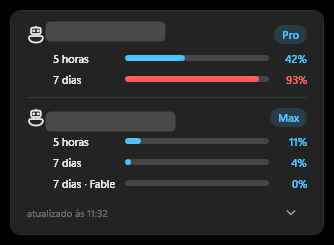
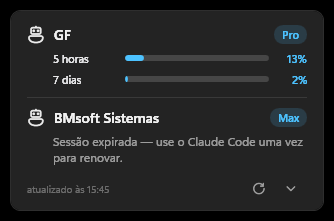
feat: O cartão de cota ganha um botão para perguntar de novo, agora
"Card do consumo de IA não tem um refresh." Não tinha mesmo: a cota era lida ao
abrir o cartão e de dez em dez minutos, e quem acabava de usar o Claude Code
precisava fechar e reabrir o cartão para ver o número novo — sem nada na tela
dizendo que era isso o que faltava fazer.

O ↻ entra no rodapé, à esquerda da seta de abrir e fechar os detalhes. Enquanto
a resposta não chega, o rodapé diz "consultando…" e o botão fica desabilitado:
clicar de novo não adiantaria, a cota é a mesma. É o mesmo desenho do "Conferir
agora" das atualizações, e existe pelo mesmo motivo — uma consulta que vai à
rede e não responde na hora parece um botão quebrado.

Duas decisões pequenas:

- o "consultando…" **ocupa o lugar da hora**, em vez de vir ao lado dela: são a
  mesma informação em dois tempos — quando foi a última leitura, e que há outra
  a caminho;
- ele só apaga **junto com a chegada dos números**. Apagá-lo primeiro deixaria o
  rodapé mostrando a hora antiga por um quadro, como se a leitura tivesse
  voltado com o valor de dez minutos atrás.

O clique chama o modelo por reflection, como a seta ao lado e pelo mesmo motivo:
o harness que confere o desenho monta o cartão com um objeto de mentira, e um
cast derrubaria o harness em vez de reler.

Conferido rodando, pela dist e por UI Automation, com o minuto recém-virado para
a hora poder mudar: 0,08s "consultando…", 0,43s "atualizado às 15:45". Na
primeira tentativa o rodapé parecia não mudar — a leitura leva 350 ms e caía no
[…]

diff --git a/src/Views/AiUsageCard.xaml b/src/Views/AiUsageCard.xaml
@@ -198,17 +198,32 @@
         </ItemsControl.Style>
       </ItemsControl>
 
-      <!-- o rodapé: a hora da leitura à esquerda, a seta de abrir/fechar à direita -->
-      <Grid Margin="0,6,0,0">
-        <TextBlock Foreground="#FF6E6E6E" FontSize="10" VerticalAlignment="Center"
-                   Text="{Binding AiUsage.Quando, StringFormat='atualizado às {0:HH:mm}'}"
-                   Visibility="{Binding HasAiReading, Converter={StaticResource BoolToVisible}}" />
+      <!-- o rodapé: a hora da leitura (ou o "consultando…") à esquerda, e à direita os dois
+           botões — reler agora e abrir/fechar os detalhes.
 
-        <Button HorizontalAlignment="Right" Style="{StaticResource ExpandButton}"
-                Click="OnToggleExpand" ToolTip="{Binding AiExpandTooltip}"
-                AutomationProperties.Name="{Binding AiExpandTooltip}">
-          <ui:GlyphIcon Glyph="{Binding AiExpandGlyph}" Fill="#FF9D9D9D" Size="11" />
-        </Button>
+           O "consultando…" ocupa o lugar da hora em vez de vir ao lado dela: são a mesma
+           informação em dois tempos — quando foi a última leitura, e que há outra a caminho. -->
+      <Grid Margin="0,6,0,0">
+        <TextBlock Text="{Binding AiReadAt}" Foreground="#FF6E6E6E" FontSize="10"
+                   VerticalAlignment="Center" />
+
+        <StackPanel Orientation="Horizontal" HorizontalAlignment="Right">
+          <!-- A cota muda do lado do servidor, e o cartão só pergunta de dez em dez minutos:
+               sem isto, quem acabou de usar o Claude Code tinha de fechar e reabrir o cartão
+               (que relê ao abrir) para ver o número novo — e não havia nada na tela dizendo
+               que era isso o que faltava fazer. -->
+          <Button Style="{StaticResource ExpandButton}" Click="OnRefresh"
+                  IsEnabled="{Binding AiCanRefresh}" ToolTip="Consultar de novo, agora"
+                  AutomationProperties.Name="Consultar de novo, agora">
+            <ui:GlyphIcon Glyph="&#xE72C;" Fill="#FF9D9D9D" Size="11" />
+          </Button>
+
+          <Button Style="{StaticResource ExpandButton}"
+                  Click="OnToggleExpand" ToolTip="{Binding AiExpandTooltip}"
+                  AutomationProperties.Name="{Binding AiExpandTooltip}">
+            <ui:GlyphIcon Glyph="{Binding AiExpandGlyph}" Fill="#FF9D9D9D" Size="11" />
+          </Button>
+        </StackPanel>
       </Grid>
     </StackPanel>
   </Border>

diff --git a/src/Services/PanelModel.cs b/src/Services/PanelModel.cs
@@ -1206,6 +1206,7 @@ public sealed class PanelModel : INotifyPropertyChanged, IDisposable
             OnChanged(nameof(AiTooltip));
             OnChanged(nameof(HasAiReading));
             OnChanged(nameof(AiBrush));
+            OnChanged(nameof(AiReadAt));
         }
     }
 
@@ -1278,6 +1279,38 @@ public sealed class PanelModel : INotifyPropertyChanged, IDisposable
     /// "Consultando…" acima já tivesse sido respondido.
     /// </summary>
     public bool HasAiReading => _aiUsage.Quando > DateTime.MinValue;
+
+    /// <summary>
+    /// Uma leitura está em curso.
+    ///
+    /// Existe pelo mesmo motivo do "Conferir agora" das atualizações: a consulta vai à rede,
+    /// uma vez por conta, e um botão que não responde nesse tempo parece quebrado. Enquanto
+    /// dura, o rodapé diz "consultando…" e o botão fica desabilitado — clicar de novo não
+    /// adiantaria nada, e a cota é a mesma.
+    /// </summary>
+    private bool _aiChecking;
+    public bool AiChecking
+    {
+        get => _aiChecking;
+        private set
+        {
+            if (!Set(ref _aiChecking, value)) return;
+            OnChanged(nameof(AiReadAt));
+            OnChanged(nameof(AiCanRefresh));
+        }
+    }
+
+    /// <summary>O botão de reler só aceita clique quando não há leitura em curso.</summary>
+    public bool AiCanRefresh => !_aiChecking;
+
+    /// <summary>
+    /// O que o rodapé do cartão diz à esquerda: "consultando…" enquanto a resposta não vem,
+    /// a hora da última leitura depois dela, e nada antes da primeira — que é quando a hora
+    /// seria a de abrir o cartão, como se o "Consultando…" de cima já tivesse sido respondido.
+    /// </summary>
+    public string AiReadAt => _aiChecking
+        ? "consultando…"
+        : HasAiReading ? $"atualizado às {_aiUsage.Quando:HH:mm}" : string.Empty;
 
     /// <summary>
     /// O cartão está detalhado ou compacto? Mora na configuração porque é preferência de
@@ -1381,10 +1414,16 @@ public sealed class PanelModel : INotifyPropertyChanged, IDisposable
         // configuração, e ela muda por clique de quem está olhando o painel
         var escolhidas = _config.AiUsageAccounts.ToList();
 
+        AiChecking = true;
+
         _ = Task.Run(async () =>
         {
             var uso = await _ai.ReadAsync(escolhidas).ConfigureAwait(false);
-            await _dispatcher.InvokeAsync(() => AiUsage = uso);
+
+            // o "consultando…" apaga junto com a chegada dos números, e não antes: apagá-lo
+            // primeiro deixaria o rodapé mostrando a hora antiga por um quadro, como se a
+            // leitura tivesse voltado com o valor de dez minutos atrás
+            await _dispatcher.InvokeAsync(() => { AiUsage = uso; AiChecking = false; });
         });
     }
 

diff --git a/src/Views/AiUsageCard.xaml.cs b/src/Views/AiUsageCard.xaml.cs
@@ -32,6 +32,14 @@ public partial class AiUsageCard : UserControl
     private void OnToggleExpand(object sender, RoutedEventArgs e) =>
         DataContext?.GetType().GetMethod("ToggleAiExpanded")?.Invoke(DataContext, null);
 
+    /// <summary>
+    /// O botão de reler: pergunta a cota de novo, agora. Pelo mesmo caminho por reflection
+    /// da seta acima, e pelo mesmo motivo — o harness monta este controle com um objeto de
+    /// mentira.
+    /// </summary>
+    private void OnRefresh(object sender, RoutedEventArgs e) =>
+        DataContext?.GetType().GetMethod("RefreshAiUsage")?.Invoke(DataContext, null);
+
     private void OnGaugeSizeChanged(object sender, SizeChangedEventArgs e)
     {
         if (sender is not Border trilho || trilho.Child is not Border preenchimento) return;

diff --git a/docs/MANUAL.md b/docs/MANUAL.md
@@ -174,7 +174,8 @@ houver alguma esperando (veja [Atualizações esperando](#atualizações-esperan
 | Desligar, reiniciar, hibernar, bloquear, sair | o botão de energia |
 | Brilho do monitor | clique no ícone de brilho, ou role a roda do mouse sobre ele |
 | Ver o último minuto de processador, memória e rede | clique no CPU (veja [CPU, memória e rede](#cpu-memória-e-rede)) |
-| Quanto da cota do Claude já foi usada | clique no velocímetro (veja [Cota de IA](#cota-de-ia)) |
+| Quanto da cota do Claude já foi usada | clique no robô (veja [Cota de IA](#cota-de-ia)) |
+| Perguntar a cota de novo, agora | o `↻` no rodapé do cartão de cota |
 | Ver o que há para atualizar | clique na seta com o número (veja [Atualizações esperando](#atualizações-esperando)) |
 | Corrigir o texto de uma tarefa | clique no texto dela, dentro do calendário |
 | Marcar a hora de uma tarefa | o `🕘` no balão dela, ou digite `14:30 dentista` na nova tarefa |
@@ -373,6 +374,12 @@ Havendo mais de uma, aparece em **Configurações > Contas no cartão de cota** 
 escolher quais acompanhar. Sem nenhuma marcada, o cartão mostra todas — inclusive as que
 passarem a existir depois. Com uma conta só, esse cartão de configuração nem aparece: não há o
 que escolher.
+
+**Quando o número é lido.** Ao abrir o cartão, e de dez em dez minutos enquanto a dock roda —
+cada volta é uma ida à rede, uma por conta. O **`↻` do rodapé pergunta de novo, na hora**: é
+para quando você acabou de usar o Claude Code e quer ver o número novo sem esperar. Enquanto a
+resposta não chega, o rodapé diz "consultando…" e o botão fica desabilitado; a hora da última
+leitura fica ali ao lado.
 
 **Compacto ou detalhado.** A seta no rodapé do cartão alterna entre os dois, e o que você
 escolher fica. O compacto — que é como ele começa — põe cada janela de cota numa linha só, com a
